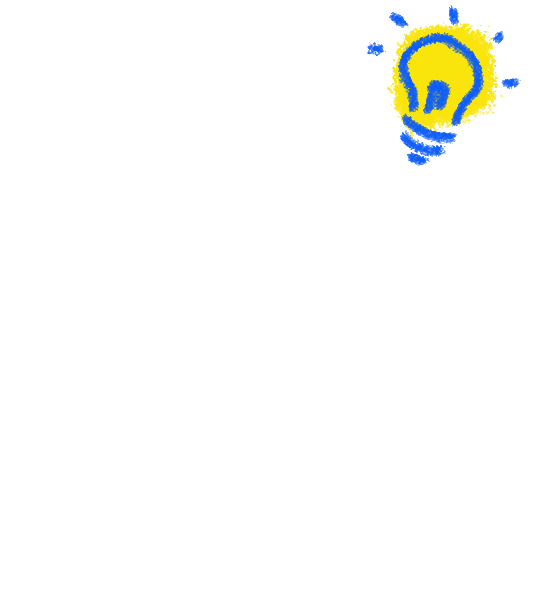
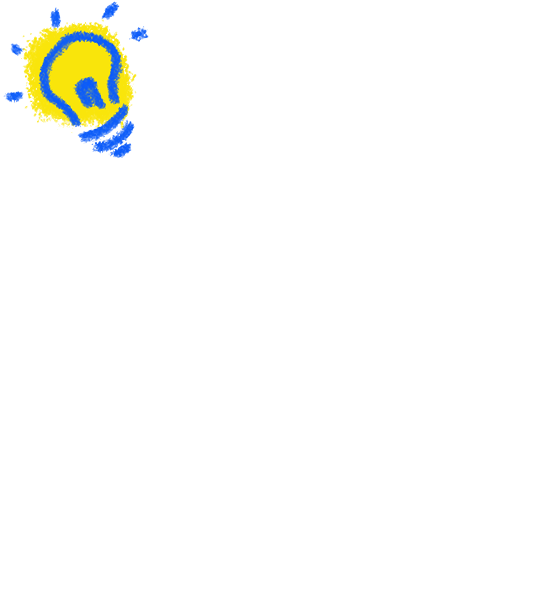
motivated

Changed region(s): [[0.6375, 0.0, 0.9411, 0.3], [0.0, 0.0, 0.2732, 0.27]]

diff --git a/index.html b/index.html
@@ -36,13 +36,16 @@
       </section>
       <div class="arrow">&lt;--</div>
       <div class="snap intro introQuality1">
-        <img class="lamp" src="img/LAMP.png" alt="" />
         <p>a fast learner</p>
+        <img class="lamp" src="img/LAMP.png" alt="" />
       </div>
-      <div class="snap intro introQuality2"><p>MOTIVATED !!!</p></div>
+      <div class="snap intro introQuality2">
+        <p>MOTIVATED !!!</p>
+        <img class="motiv" src="img/motiv.png" alt="" />
+      </div>
       <div class="snap intro introLFG">
-        <img class="XP" src="img/EXP.png" alt="" />
         <p>looking for my first<br />web development experience</p>
+        <img class="XP" src="img/EXP.png" alt="" />
       </div>
       <section class="snap trainings">
         <h2>Trainings</h2>

diff --git a/style.css b/style.css
@@ -232,10 +232,33 @@ body * {
   width: auto;
   height: auto;
   left: 0;
+  top: 35vh;
+  transform: translate(25vw);
+  transition: transform 2s;
+}
+
+.introQuality2 {
+  position: relative;
+}
+
+.introQuality2 p {
+  position: absolute;
+  top: 30vh;
+}
+
+.motiv {
+  position: sticky;
+  display: block;
+  max-width: 6em;
+  max-height: 6em;
+  width: auto;
+  height: auto;
+  left: 0;
   top: 40vh;
   transform: translate(25vw);
   transition: transform 2s;
 }
+
 .introLFG {
   position: relative;
 }
